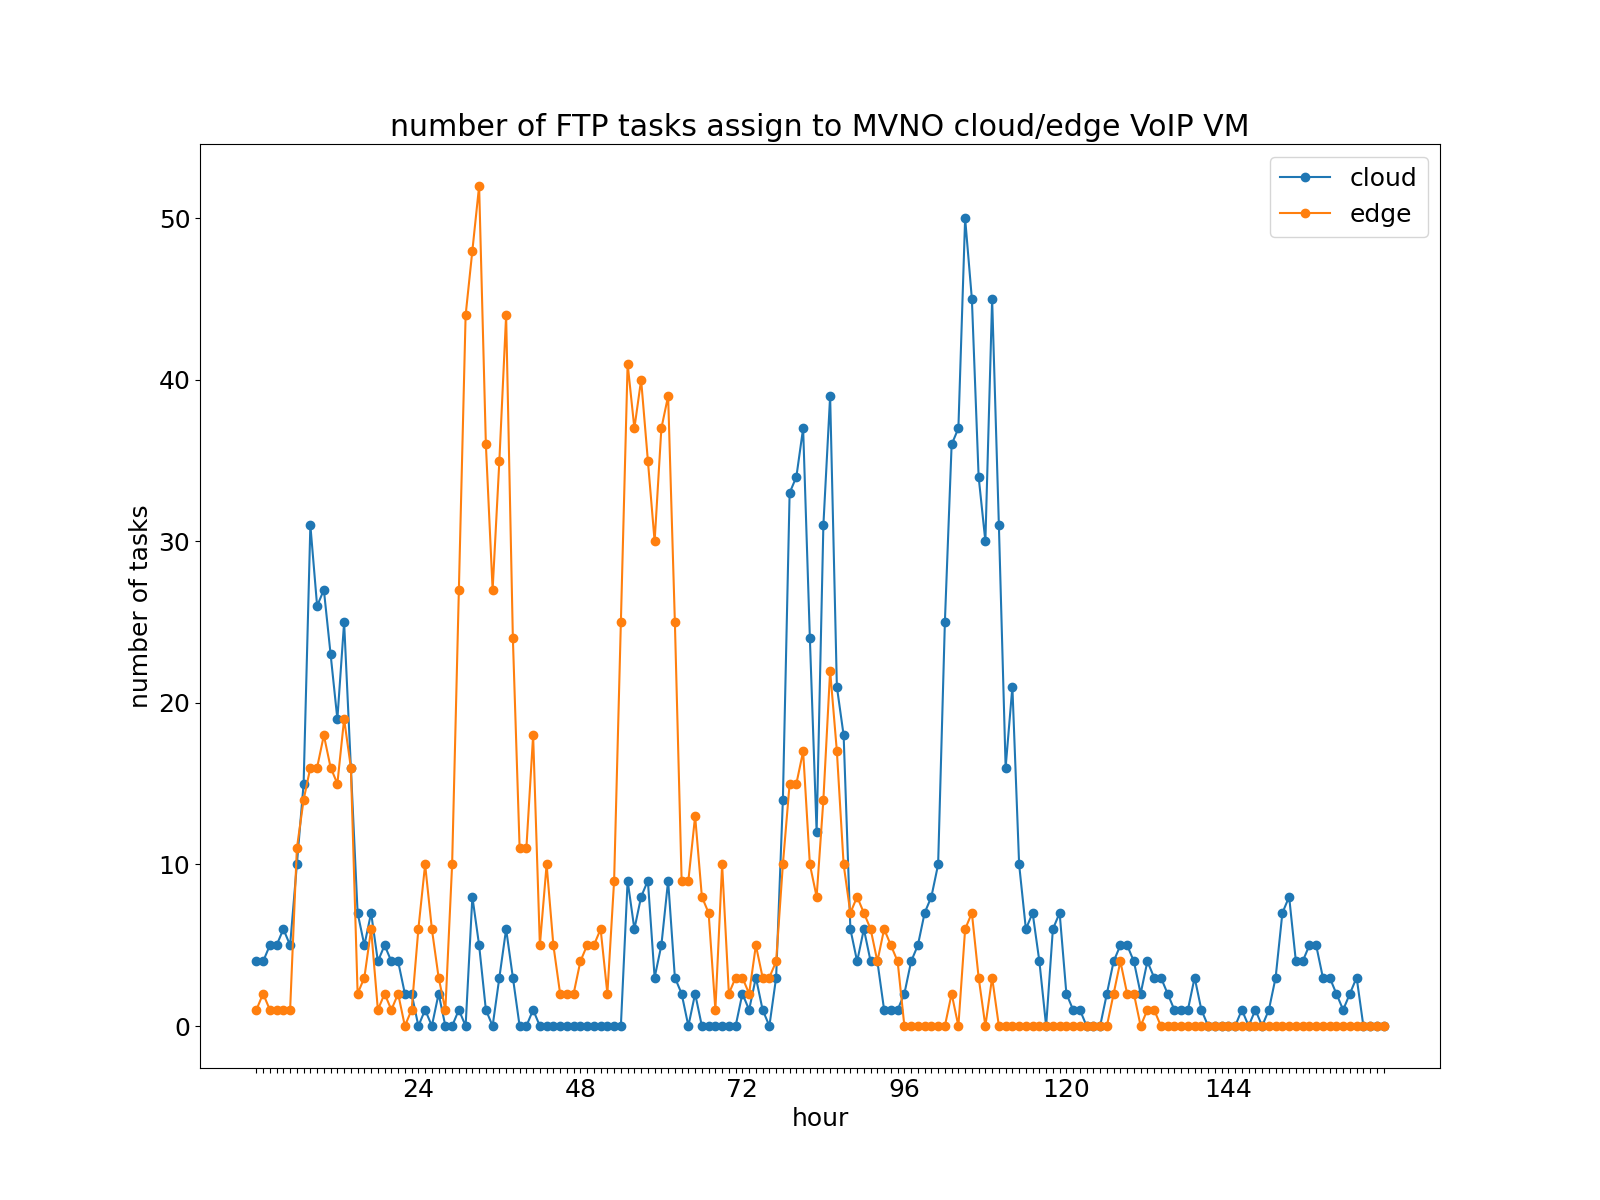
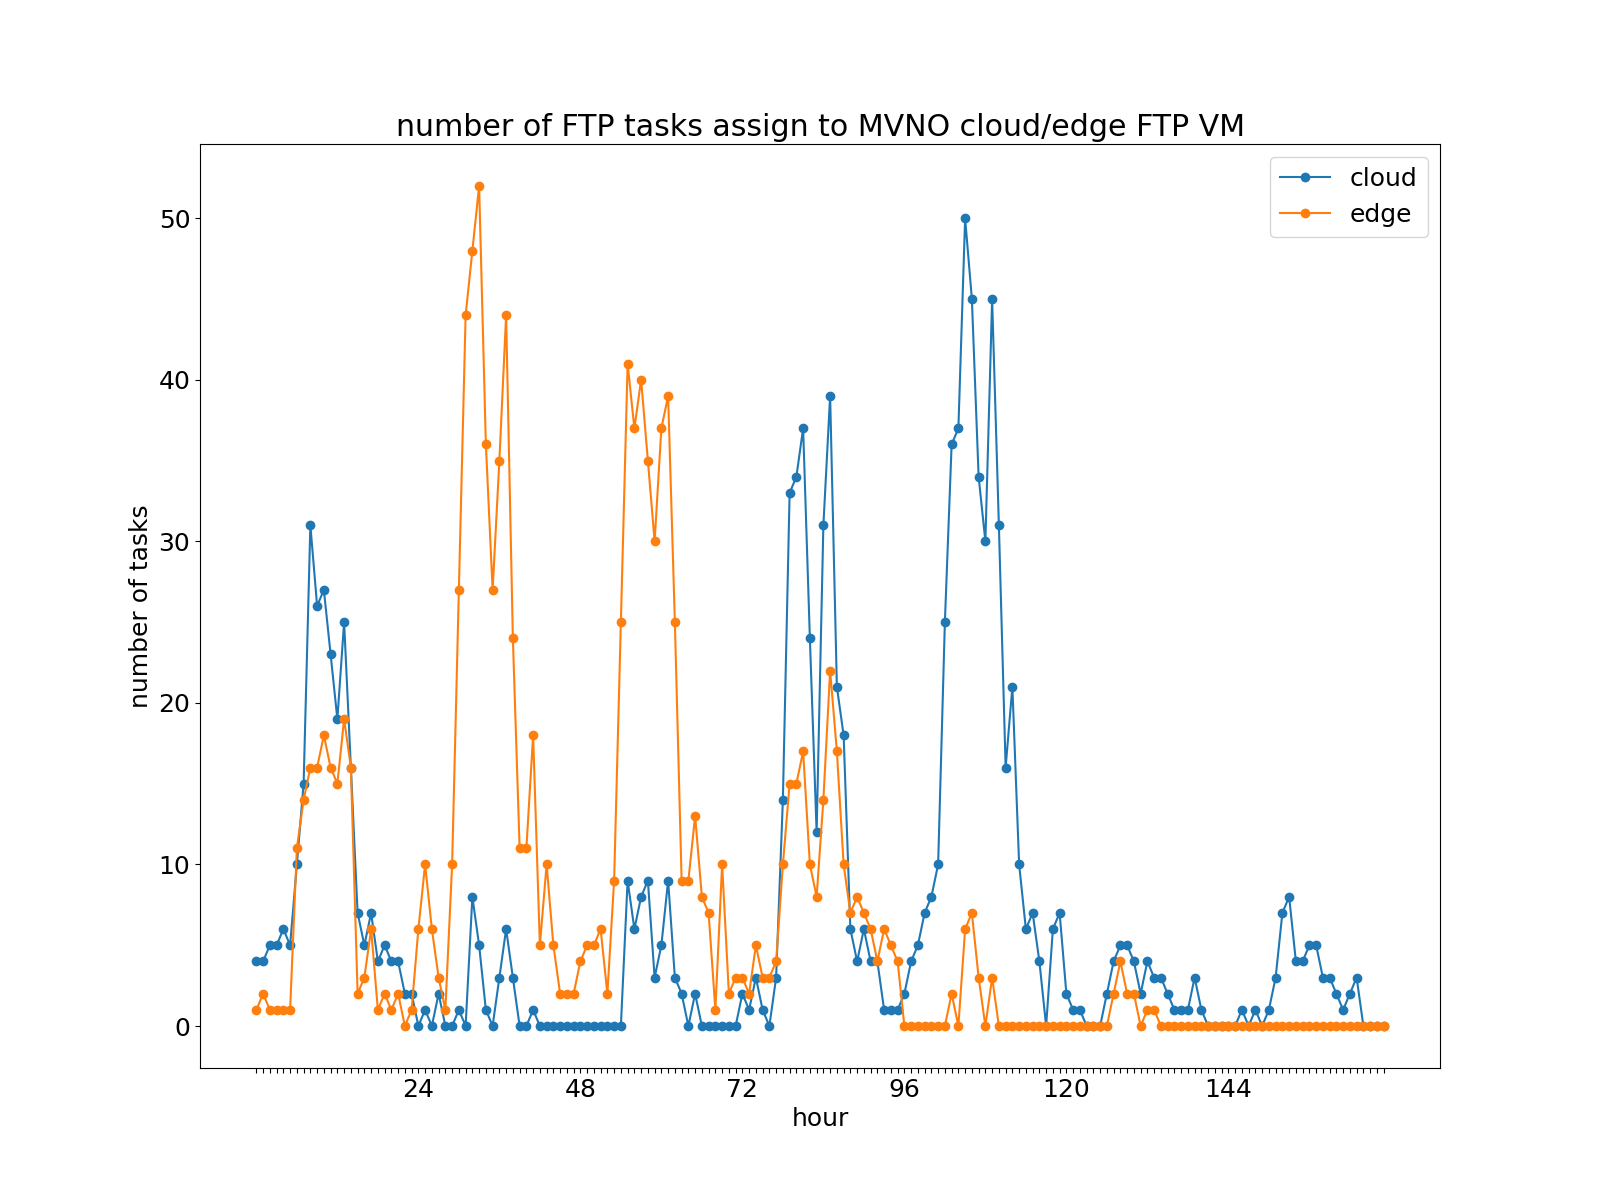
Tiny Fix title.

Changed region(s): [[0.25, 0.0925, 0.7812, 0.1233]]

diff --git a/plot_weighting_factor_testing.py b/plot_weighting_factor_testing.py
@@ -46,7 +46,7 @@ def plot_price_testing():
 
     # IP Video
     plt.figure(figsize=figsize)
-    plt.title('number of IP Video tasks assign to MVNO cloud/edge VoIP VM')
+    plt.title('number of IP Video tasks assign to MVNO cloud/edge IP Video VM')
     plt.xlabel('hour')
     plt.ylabel('number of tasks')
     plot_cloud_edge(price_data['cloud'][:, 1], price_data['edge'][:, 1])
@@ -54,7 +54,7 @@ def plot_price_testing():
 
     # FTP
     plt.figure(figsize=figsize)
-    plt.title('number of FTP tasks assign to MVNO cloud/edge VoIP VM')
+    plt.title('number of FTP tasks assign to MVNO cloud/edge FTP VM')
     plt.xlabel('hour')
     plt.ylabel('number of tasks')
     plot_cloud_edge(price_data['cloud'][:, 2], price_data['edge'][:, 2])
